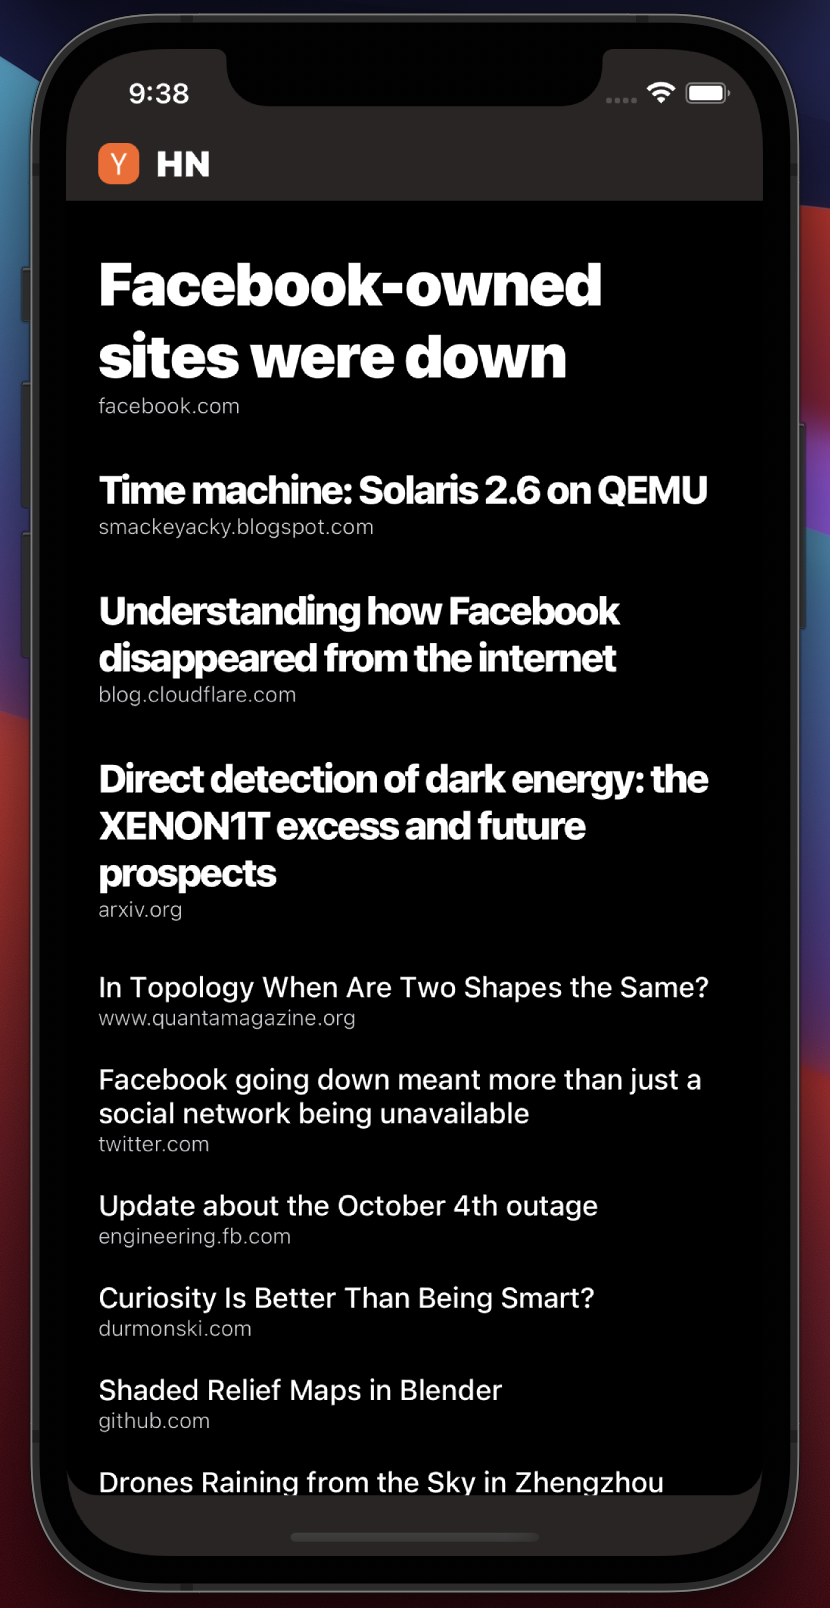
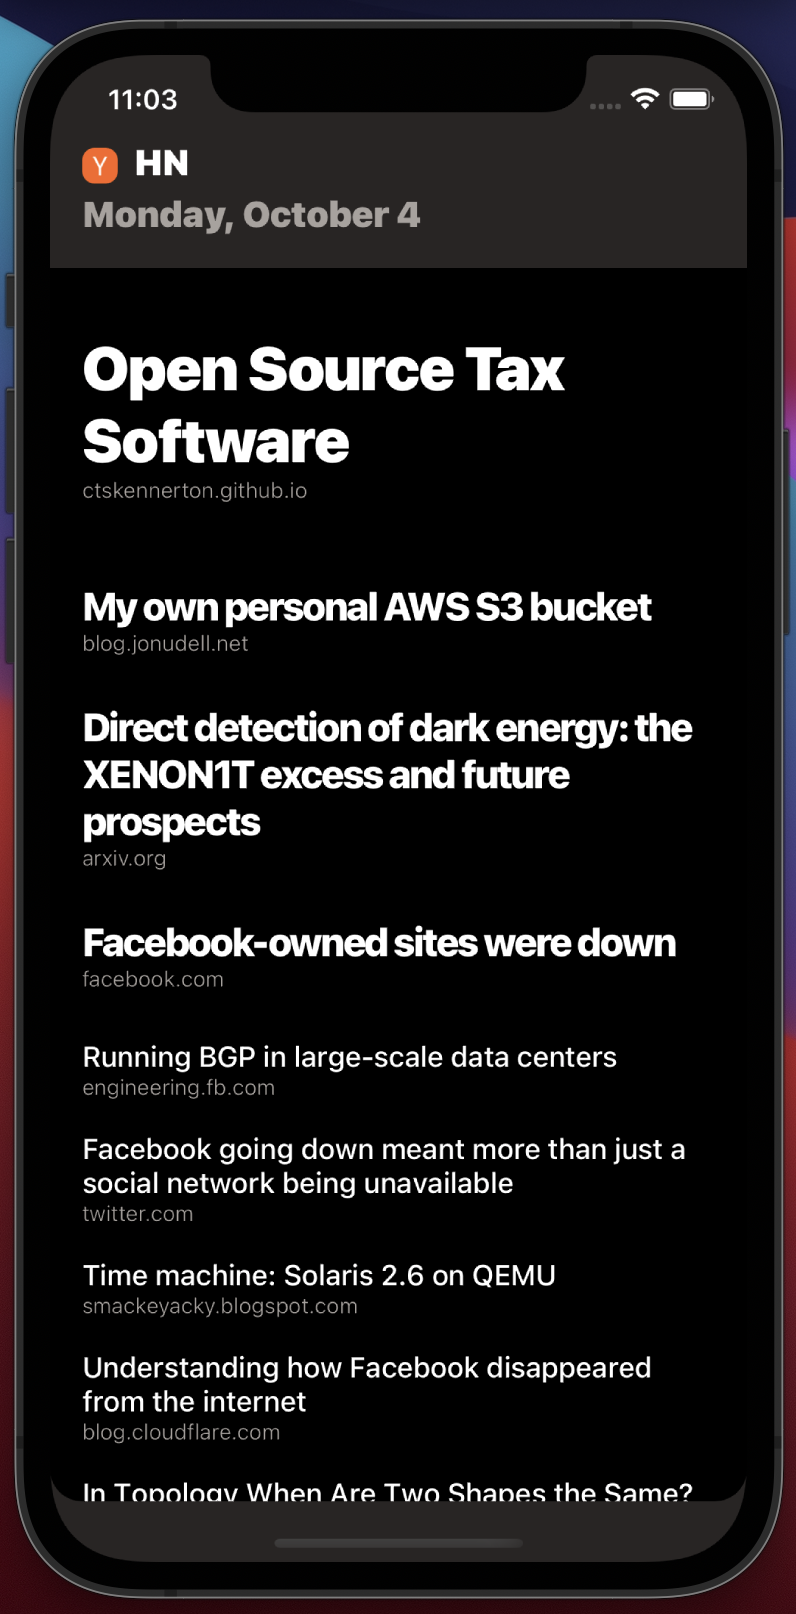
chore: go to bed

Changed region(s): [[0.0, 0.0, 1.0, 0.995]]

diff --git a/screens/home/index.tsx b/screens/home/index.tsx
@@ -18,6 +18,12 @@ export function Home() {
     return <Text>Loading...</Text>;
   }
 
+  const date = new Intl.DateTimeFormat("en-US", {
+    weekday: "long",
+    month: "long",
+    day: "numeric",
+  }).format(new Date());
+
   return (
     <SafeAreaView
       style={(t) => ({
@@ -32,6 +38,19 @@ export function Home() {
           borderBottomRightRadius: t.radius.xl,
         })}
       >
+        <Text
+          style={(t) => ({
+            backgroundColor: t.color.headerBg,
+            padding: t.space.lg,
+            paddingTop: 0,
+            fontSize: t.type.size["lg"],
+            lineHeight: t.type.size["lg"],
+            fontWeight: "900",
+            color: t.color.textAccent,
+          })}
+        >
+          {date}
+        </Text>
         {stories.data.slice(0, 20).map((id, index) => (
           <Story key={index} index={index} id={id} />
         ))}
@@ -73,12 +92,13 @@ function Story({ index, id }: { index: number; id: number }) {
       style={(t) => ({
         padding: t.space.lg,
         paddingTop: index === 0 ? t.space.xl : t.space.md,
-        paddingBottom: t.space.md,
+        paddingBottom:
+          index === 0 ? t.space.xl : index < 4 ? t.space.lg : t.space.md,
       })}
     >
       <Text
         style={(t) => ({
-          color: t.color.primaryText,
+          color: t.color.textPrimary,
           fontSize: t.type.size[index === 0 ? "3xl" : index < 4 ? "xl" : "sm"],
           fontWeight: index === 0 ? "900" : index < 4 ? "800" : "500",
           letterSpacing:
@@ -89,7 +109,7 @@ function Story({ index, id }: { index: number; id: number }) {
       </Text>
       <Text
         style={(t) => ({
-          color: t.color.accentText,
+          color: t.color.textAccent,
           fontSize: t.type.size["2xs"],
           fontWeight: "300",
         })}

diff --git a/app.tsx b/app.tsx
@@ -1,4 +1,6 @@
 import "react-native-url-polyfill/auto";
+import "intl";
+import "intl/locale-data/jsonp/en";
 import { NavigationContainer } from "@react-navigation/native";
 import type { NativeStackHeaderProps } from "@react-navigation/native-stack";
 import { createNativeStackNavigator } from "@react-navigation/native-stack";
@@ -8,7 +10,7 @@ import * as React from "react";
 import { useColorScheme } from "react-native";
 import logo from "@/assets/logo.png";
 import { Image, SafeAreaView, Text, View } from "@/components/primitives";
-import { DashProvider, responsiveSize } from "@/dash";
+import { DashProvider } from "@/dash";
 import { Home } from "@/screens/home";
 
 registerRootComponent(App);
@@ -75,7 +77,8 @@ function Header(props: NativeStackHeaderProps) {
         <Text
           style={(t) => ({
             fontSize: t.type.size.lg,
-            color: t.color.primaryText,
+            lineHeight: t.type.size.lg,
+            color: t.color.textPrimary,
             fontWeight: "900",
           })}
         >

diff --git a/dash.config.ts b/dash.config.ts
@@ -476,8 +476,8 @@ const themes: Record<
   "light" | "dark",
   {
     color: {
-      primaryText: RN.ColorValue;
-      accentText: RN.ColorValue;
+      textPrimary: RN.ColorValue;
+      textAccent: RN.ColorValue;
       bodyBg: RN.ColorValue;
       headerBg: RN.ColorValue;
       accent: RN.ColorValue;
@@ -487,8 +487,8 @@ const themes: Record<
 > = {
   light: {
     color: {
-      primaryText: colorSystem.black,
-      accentText: colorSystem.gray500,
+      textPrimary: colorSystem.black,
+      textAccent: colorSystem.warmGray600,
       bodyBg: colorSystem.white,
       headerBg: colorSystem.amber100,
       accent: colorSystem.warmGray300,
@@ -498,8 +498,8 @@ const themes: Record<
   },
   dark: {
     color: {
-      primaryText: colorSystem.white,
-      accentText: colorSystem.gray300,
+      textPrimary: colorSystem.white,
+      textAccent: colorSystem.warmGray400,
       bodyBg: colorSystem.black,
       headerBg: colorSystem.warmGray800,
       accent: colorSystem.warmGray700,
